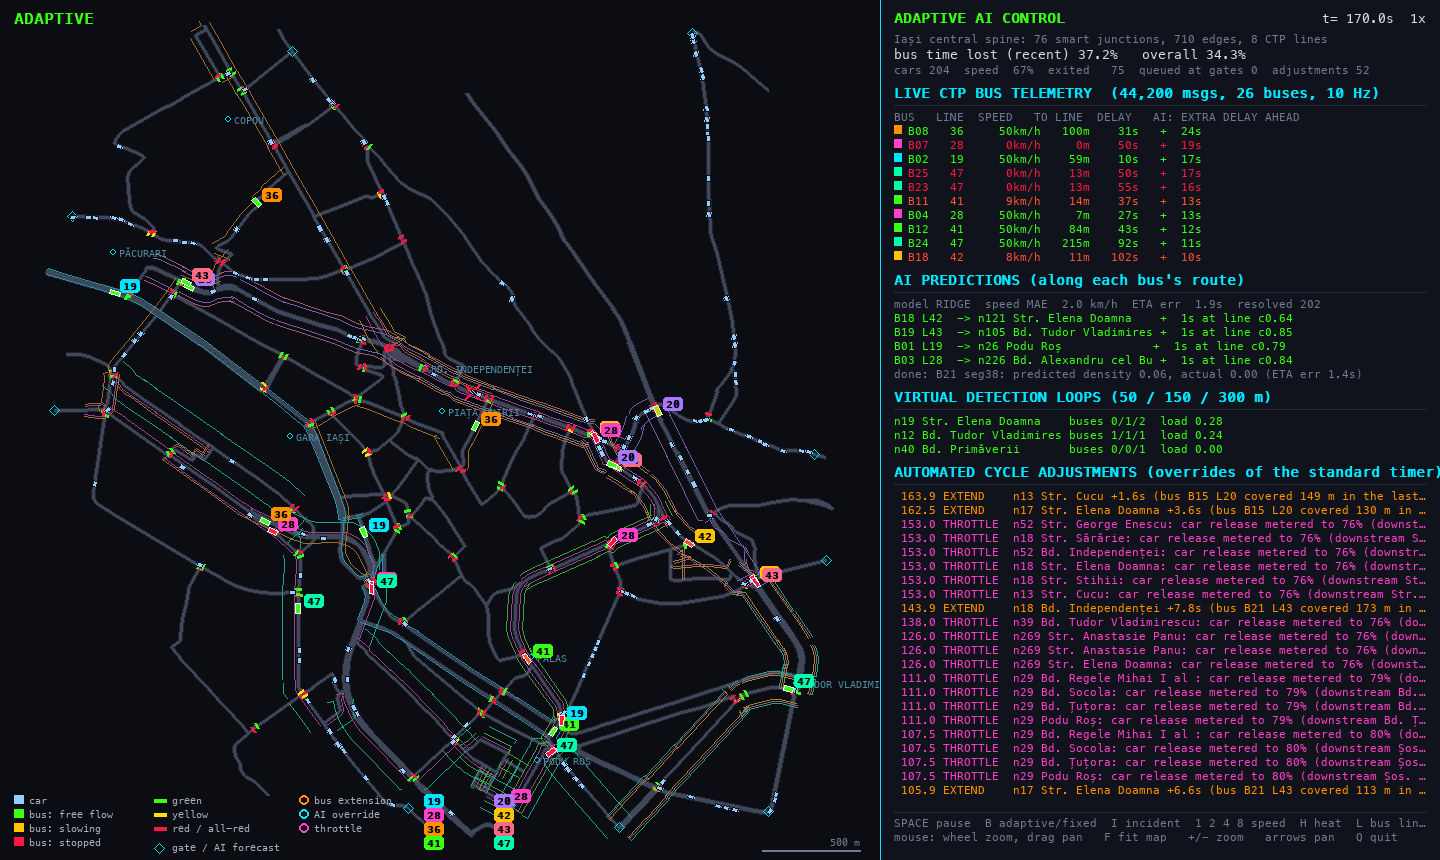
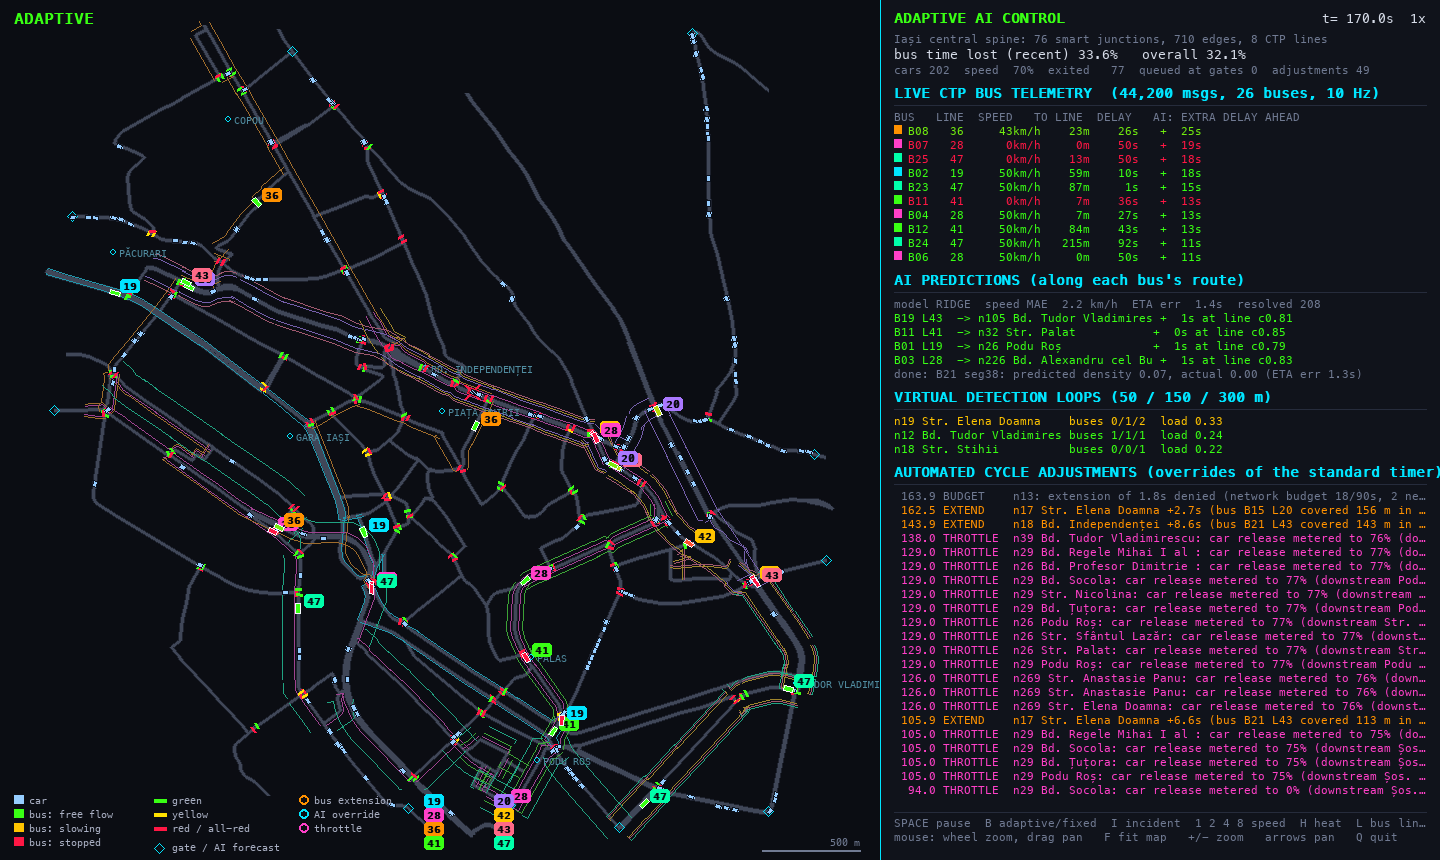
Let both sides of a green phase pass at the same time
When opposite streets were green together, one side often stood still: a
left-turner yielding to oncoming traffic blocked its whole one-lane
approach, and streams merging into the same edge took turns at the line.
Over ten simulated minutes 468 vehicles were found standing at a green
line six seconds or more into the green.

- remove the left-turn yield and the merge exclusion; opposite streets and
  left turns now simply cross inside the box
- when two streams land on the same edge, the later vehicle falls in
  behind the earlier one (it may sit a little before the centre until the
  leader moves on), so lanes never overlap
- judge entry room for the moment the vehicle reaches the junction centre
  instead of for the instant it passes the stop line: whoever is last on
  the next edge will have moved on unless it is standing. This removes a
  knife-edge where a car 20 cm short of the line had to stop dead while
  its twin on the other side drove on
- a full or stalled road ahead still blocks the approach, so nobody enters
  the box without room to leave it

Result: standing heads at green fell from 468 to 13 (the rest wait for a
full road ahead); opposite queues now discharge in lockstep. Both control
modes improve (fixed timers: bus time lost 38.0% to 36.2%, car speed 59%
to 64%, half-occupied edge-seconds 328 to 179). Adaptive control remains
close to fixed timers. Docs and measured tables updated; tests replaced
with ones that check both sides crossing together (119 pass).

diff --git a/smartcity/traffic_model.py b/smartcity/traffic_model.py
@@ -4,11 +4,12 @@ Controllers never read this directly. They only see what the buses report, so th
 really are the sensors. The world enforces the physical rules (SUMO-style, in plain Python):
 
 * a vehicle may not pass the stop line while its light is red, nor on yellow if it can still
-  stop, and it never enters the junction box unless there is room to leave it;
+  stop, and it never enters the junction box unless there will be room on the next edge when it
+  gets there;
 * vehicles follow the one ahead at a safe distance along the edge polyline and cannot overtake,
   so they never overlap and never jump across nodes;
-* left turns yield to oncoming traffic that shares their phase, and two streams merging into the
-  same edge take turns;
+* both streets of a phase pass together: nothing yields to oncoming traffic, and two streams that
+  merge into the same edge fall in behind one another when they land;
 * a throttled approach (see the coordinator) releases cars at a reduced rate.
 
 Every vehicle follows a route: buses loop forever along their line, cars follow a gate-to-gate
@@ -61,9 +62,9 @@ class TrafficModel:
         self._ids = 0
         self._release_factor: Callable[[int], float] = lambda s: 1.0
         self._signal_state: Callable[[int], str] = lambda s: "G"
-        # vehicles that have passed a stop line and are crossing the box: target edge -> {vehicle id: source edge}
+        # vehicles that have passed a stop line and are crossing the box (used so that cars are not spawned into an
+        # edge that traffic is entering): target edge -> {vehicle id: source edge}
         self.in_box: dict[int, dict[str, int]] = {}
-        self._kind_cache: dict[tuple[int, int], str] = {}
         self._seed_cars()
 
     # -- creation ------------------------------------------------------------
@@ -247,8 +248,6 @@ class TrafficModel:
             return True  # can still stop, so it must; only vehicles too fast to stop run the yellow
         if not self._can_enter(v):
             return True  # never enter the box without room to leave it
-        if self._turns_left(v, seg) and self._oncoming_conflict(seg):
-            return True  # yield to oncoming traffic, which is green at the same time
         if v.kind == "car":
             g = self._release_factor(seg.id)
             if g <= 0.0:
@@ -257,41 +256,17 @@ class TrafficModel:
                 return True
         return False
 
-    def _turns_left(self, v: Vehicle, seg: Segment) -> bool:
-        if v.next_seg is None:
-            return False
-        key = (seg.id, v.next_seg)
-        kind = self._kind_cache.get(key)
-        if kind is None:
-            kind = self._kind_cache[key] = self.net.turn_kind(seg.id, v.next_seg)
-        return kind == "left"
-
-    def _oncoming_conflict(self, seg: Segment) -> bool:
-        """Is oncoming traffic about to enter the box from the opposite approach?"""
-        opp_id = self.net.partner.get(seg.id)
-        if opp_id is None:
-            return False
-        opp = self.net.segments[opp_id]
-        for u in self.lanes[opp_id]:
-            if u.kind == "blocker" or u.pos < opp.stop_pos - 25.0:
-                continue
-            if self._turns_left(u, opp):
-                continue  # two left turns pass each other
-            if u.pos > opp.stop_pos or u.v > 1.5:  # moving toward the box, or already in it
-                return True
-        return False
-
     def _can_enter(self, v: Vehicle) -> bool:
         if v.next_seg is None:
             return True
-        # one stream at a time may merge into an edge; the box is not shared by two merging streams
-        if any(src != v.seg for src in self.in_box.get(v.next_seg, {}).values()):
-            return False
         lane = self.lanes[v.next_seg]
         if not lane:
             return True
+        # Room is judged for the moment this vehicle reaches the junction centre, not for now: whoever is
+        # last on the next edge will have moved on by then, unless it is standing (a queue, a stalled vehicle).
         tail = lane[-1]
-        return tail.pos - tail.length >= v.length + self.cfg.min_gap
+        arrive = (self.net.segments[v.seg].length - v.pos) / max(v.v, 3.0)
+        return tail.pos - tail.length + tail.v * arrive >= v.length + self.cfg.min_gap
 
     def _cross(self, seg: Segment, v: Vehicle) -> None:
         """The vehicle has reached the intersection centre: hand it to the next segment."""
@@ -301,7 +276,13 @@ class TrafficModel:
             return
         self.in_box.get(tgt, {}).pop(v.id, None)
         v.seg, v.pos = tgt, max(0.0, v.pos - seg.length)
-        self.lanes[tgt].append(v)
+        lane = self.lanes[tgt]
+        if lane:  # two streams may merge into this edge at once: the later one falls in behind the earlier
+            ahead = lane[-1]
+            room = ahead.pos - ahead.length - self.cfg.min_gap
+            if v.pos > room:
+                v.pos, v.v = room, min(v.v, ahead.v)  # may be a little before the centre: still in the junction
+        lane.append(v)
         v.leg += 1
         if v.cyclic and v.route is not None and v.leg >= len(v.route):
             v.leg = 0

diff --git a/tests/test_traffic_model.py b/tests/test_traffic_model.py
@@ -173,31 +173,46 @@ def test_density_is_occupied_fraction_of_the_edge():
     assert w.density(seg) == pytest.approx((cfg.car_length + cfg.min_gap) / 200.0)
 
 
-def test_left_turner_yields_to_moving_oncoming_traffic_then_goes():
+def crossing_times(w, cars, state="G", seconds=40):
+    """When each car first appears on a different edge from the one it started on."""
+    dt, started, when = w.cfg.dt, {c.id: c.seg for c in cars}, {}
+    for i in range(int(seconds / dt)):
+        w.step(i * dt, dt, lambda s: state, lambda s: 1.0)
+        for c in cars:
+            if c.id not in when and c.seg != started[c.id]:
+                when[c.id] = i * dt
+    return when
+
+
+def test_both_sides_of_a_green_phase_pass_at_the_same_time():
     cfg, net, w = make()
     west = net.segments[road(net, 4, 5)]  # eastbound into node 5
-    east = net.segments[road(net, 6, 5)]  # westbound into node 5: the oncoming approach
+    east = net.segments[road(net, 6, 5)]  # westbound into node 5: the opposite approach, same phase
     assert net.partner[west.id] == east.id
-    left_target = turn(net, west.id, "left")
-    straight = turn(net, east.id, "straight")
-    left = put(w, west.id, west.stop_pos - 3.0, v=0.0, next_seg=left_target)
-    oncoming = put(w, east.id, east.stop_pos - 12.0, v=10.0, next_seg=straight)
-    w.step(0.0, cfg.dt, lambda s: "G", lambda s: 1.0)
-    assert left.pos <= west.stop_pos  # held at the line while a car bears down on the box
-    run(w, 10, state="G")
-    assert oncoming.seg == straight and left.seg == left_target  # then it turns once the road is clear
+    a = [put(w, west.id, west.stop_pos - 2 - 7 * i, next_seg=turn(net, west.id, "straight")) for i in range(4)]
+    b = [put(w, east.id, east.stop_pos - 2 - 7 * i, next_seg=turn(net, east.id, "straight")) for i in range(4)]
+    when = crossing_times(w, a + b)
+    assert len(when) == 8  # every car of both queues got through
+    for ca, cb in zip(a, b, strict=True):
+        assert abs(when[ca.id] - when[cb.id]) < 1.5  # side by side, not one side after the other
+    assert max(when.values()) < 15
 
 
-def test_two_left_turns_from_opposite_sides_do_not_block_each_other():
+def test_a_left_turner_holds_up_neither_the_cars_behind_it_nor_the_oncoming_side():
     cfg, net, w = make()
-    a, b = net.segments[road(net, 4, 5)], net.segments[road(net, 6, 5)]
-    va = put(w, a.id, a.stop_pos - 3.0, next_seg=turn(net, a.id, "left"))
-    vb = put(w, b.id, b.stop_pos - 3.0, next_seg=turn(net, b.id, "left"))
-    run(w, 15, state="G")
-    assert va.seg != a.id and vb.seg != b.id
+    west = net.segments[road(net, 4, 5)]
+    east = net.segments[road(net, 6, 5)]
+    left = put(w, west.id, west.stop_pos - 2, next_seg=turn(net, west.id, "left"))
+    behind = put(w, west.id, west.stop_pos - 9, next_seg=turn(net, west.id, "straight"))
+    oncoming = [
+        put(w, east.id, east.stop_pos - 2 - 7 * i, v=8.0, next_seg=turn(net, east.id, "straight")) for i in range(5)
+    ]
+    when = crossing_times(w, [left, behind, *oncoming])
+    assert len(when) == 7  # nobody waited for anybody else to clear the box
+    assert when[left.id] < 5 and when[behind.id] < 8 and max(when[c.id] for c in oncoming) < 12
 
 
-def test_streams_merging_into_the_same_edge_take_turns_in_the_box():
+def test_streams_merging_into_the_same_edge_both_get_through_one_behind_the_other():
     cfg, net, w = make()
     a = net.segments[road(net, 1, 5)]  # southbound into node 5, turning right (west)
     b = net.segments[road(net, 9, 5)]  # northbound into node 5, turning left (west)
@@ -205,9 +220,13 @@ def test_streams_merging_into_the_same_edge_take_turns_in_the_box():
     assert turn(net, b.id, "left") == target
     va = put(w, a.id, a.stop_pos - 1.0, v=4.0, next_seg=target)
     vb = put(w, b.id, b.stop_pos - 1.0, v=4.0, next_seg=target)
-    for i in range(int(20 / cfg.dt)):
-        w.step(i * cfg.dt, cfg.dt, lambda s: "G", lambda s: 1.0)
+    dt, when = cfg.dt, {}
+    for i in range(int(20 / dt)):
+        w.step(i * dt, dt, lambda s: "G", lambda s: 1.0)
         lane = w.lanes[target]
         for ahead, behind in zip(lane, lane[1:], strict=False):
-            assert behind.pos <= ahead.pos - ahead.length + 1e-6
-    assert va.seg != a.id and vb.seg != b.id  # both got through, one after the other
+            assert behind.pos <= ahead.pos - ahead.length + 1e-6  # they follow, never overlap
+        for v, src in ((va, a), (vb, b)):
+            if v.id not in when and v.seg != src.id:
+                when[v.id] = i * dt
+    assert len(when) == 2 and abs(when[va.id] - when[vb.id]) < 3.0  # not made to take turns at the line

diff --git a/ARCHITECTURE.md b/ARCHITECTURE.md
@@ -112,11 +112,10 @@ Identical in fixed and adaptive mode, in plain Python in the spirit of SUMO's sa
 
 - *Red:* a vehicle holds at the stop line; nothing enters the box while its light is red.
 - *Yellow:* a vehicle stops if it can still do so with maximum braking; only vehicles too fast to stop continue.
-- *Green:* a vehicle crosses only if the start of its next edge has room, so nobody enters the box without room to leave it.
+- *Green:* a vehicle crosses only if there will be room on the start of its next edge when it reaches the junction centre (whoever is last on that edge will have moved on by then, unless it is standing in a queue or stalled), so nobody enters the box without room to leave it.
 - *Car-following:* a vehicle keeps a safe distance behind the one ahead along the polyline (`v <= sqrt(2 * a_comfort * room)`), with no overtaking, so vehicles never overlap and never jump across nodes.
 - *Speed:* each vehicle drives at its edge's speed limit (cars vary by up to 8%), accelerating at 1.8 m/s² and braking at up to 6 m/s².
-- *Left turns:* both opposite streets are green together, so a left-turner yields while oncoming traffic is moving toward the box or in it.
-- *Merging:* two streams turning into the same edge never share the box.
+- *Both sides pass together:* nothing yields to oncoming traffic. The two opposite streets of a green phase (and a left turn across the oncoming one) go at the same time and simply cross inside the box; when two streams merge into the same edge, the later vehicle falls in behind the earlier one as it lands. This keeps a left-turner from holding up everyone behind it on a one-lane road.
 - *Throttle:* when the coordinator meters an approach, cars (not buses) are released no faster than `sat_flow * g`.
 - *Incident:* a stalled vehicle parks mid-edge for 150 s. On a one-lane road nobody can overtake, so the lane is blocked.
 
@@ -222,7 +221,7 @@ Everything except the window is headless. 119 tests:
 
 - **Network and geometry:** projection round trip, compass names, polyline position and lane side on a bent road, stop-line set-back; phase grouping on crossroads, T, skewed, five-way and two-approach nodes; turn options without U-turns; gates; routing.
 - **Iași dataset:** real streets and landmarks present, lengths and limits plausible, the requested lines (19, 28, 36, 41) present and contiguous, routes run along their streets, every gate reaches every other, every signalised junction has valid phases.
-- **World rules:** stop line on red, proceed on green, queue gaps, edge speed limits, wait when the exit is full, yellow, throttle spacing, buses not throttled, left-turn yield, two left turns pass, merge exclusion, stalled vehicle, cars follow gate-to-gate routes.
+- **World rules:** stop line on red, proceed on green, queue gaps, edge speed limits, wait when the exit is full, yellow, throttle spacing, buses not throttled, both sides of a green phase crossing in lockstep, a left-turner holding up neither the cars behind it nor the oncoming side, merging streams falling in behind one another, stalled vehicle, cars follow gate-to-gate routes.
 - **Signals:** opposite lights match at every junction at every tick (300 s of the real map); one phase non-red at a time; every street served; phase order green-yellow-all-red; **7 s minimum green, 3 s yellow and 2 s all-red measured**, including with adaptive extensions; **a green is never shorter than its standard time and its planned length only ever grows**.
 - **Sensing and controllers:** detection windows including across junctions, standing-bus rules, queue occupancy, route-aware `buses_near`; the route odometer (laps, history, unjudgeable buses); **the per-cycle check: a bus that barely moved gets the green extended, one that made good progress changes nothing, extensions scale with the shortfall, no judgement without a whole cycle of history or a previous green, far or off-route buses ignored, no extension into jammed streets, cap and budget, fixed timers unaffected**; the graph-aware throttle (an overloaded *downstream junction* throttles an upstream release onto a free edge) and its bus waiver; predictive extension.
 - **Prediction:** forecasts follow the route for three hops and wrap; the window moves ahead as the bus clears junctions; unknown lines get one hop; error recording, expiry, ridge learning.
@@ -237,24 +236,25 @@ Everything except the window is headless. 119 tests:
 
 | mode | bus time lost | car speed (share of limit) | edge-seconds half-occupied | cars exited | adjustments |
 |---|---|---|---|---|---|
-| fixed timers | 38.0% | 59% | 328 | 268 | 0 |
-| adaptive | 37.6% | 57% | 337 | 265 | 245 |
+| fixed timers | 36.2% | 64% | 179 | 278 | 0 |
+| adaptive | 35.6% | 62% | 172 | 277 | 220 |
 
 Other demand levels (bus time lost / car speed / jam edge-seconds / cars exited, fixed then adaptive):
 
 | demand (cars/s per gate) | seeds | fixed timers | adaptive |
 |---|---|---|---|
-| 0.045 | 4 | 36.4% / 65% / 36 / 219 | 36.2% / 63% / 38 / 219 |
-| 0.06 | 4 | 37.4% / 62% / 109 / 244 | 37.2% / 62% / 114 / 242 |
-| 0.08 (default) | 6 | 38.0% / 59% / 328 / 268 | 37.6% / 57% / 337 / 265 |
+| 0.045 | 4 | 35.5% / 67% / 34 / 223 | 35.1% / 65% / 44 / 221 |
+| 0.06 | 4 | 35.6% / 65% / 66 / 252 | 35.3% / 64% / 74 / 250 |
+| 0.08 (default) | 6 | 36.2% / 64% / 179 / 278 | 35.6% / 62% / 172 / 277 |
 
-Ablation at the default demand (6 seeds; bus time lost / car speed / jam / exited): fixed 38.0% / 58.5% / 328 / 268; everything on 37.6% / 57.0% / 337 / 265; no throttle 37.6% / 58.1% / 352 / 267; throttle only 38.4% / 57.7% / 314 / 264; no cycle extension and no predictive extension (equal to throttle only).
+Ablation at the default demand (6 seeds; bus time lost / car speed / jam / exited): fixed 36.2% / 63.5% / 179 / 278; everything on 35.6% / 62.5% / 172 / 277; no throttle 35.5% / 63.1% / 194 / 275; throttle only 36.3% / 62.7% / 163 / 278; no cycle extension 36.3% / 62.5% / 175 / 277.
 
 - **Performance.** A frame at 1x speed costs about 9 ms (map and dashboard 5 ms, six simulation ticks 3.4 ms), so the demo holds 60 FPS; at 4x about 53 FPS; the loop keeps the window responsive at 8x. A 15-minute run simulates in about 6 s headless.
-- **With only bus evidence and extend-only greens, adaptive control is close to a wash.** The per-cycle check fires a few dozen times in ten minutes and each time cites a bus that really was held (113 m in a 50 s cycle, and so on). It lowers bus time lost by about 0.8 points relative to the throttle alone, and 0.4 points relative to fixed timers, at the cost of a little green taken from the cross street. The throttle, which the brief asks for to prevent shifting a bottleneck, costs car speed (about one point) and barely changes how long edges stay half-full. Net: bus time lost 0.2 to 0.4 points lower, car speed 0 to 2 points lower, throughput within 1%, jams unchanged within noise. An earlier version that also shortened some greens to lengthen others (score-sized splits and early switches, which decided about cars from estimates) measured better for buses (1.7 points at the default demand) and for jams; removing those, as required because the cars are not observed, gives that up.
+- **With only bus evidence and extend-only greens, adaptive control is close to a wash.** The per-cycle check fires a few dozen times in ten minutes and each time cites a bus that really was held (113 m in a 50 s cycle, and so on). It lowers bus time lost by about 0.7 points relative to the throttle alone and 0.6 points relative to fixed timers, at the cost of a little green taken from the cross street. The throttle, which the brief asks for to prevent shifting a bottleneck, costs car speed (about one point) and changes how long edges stay half-full little. Net: bus time lost 0.3 to 0.6 points lower, car speed 1 to 2 points lower, throughput within 1%, jams unchanged within noise. An earlier version that also shortened some greens to lengthen others (score-sized splits and early switches, which decided about cars from estimates) measured better for buses (1.7 points at the default demand, under the previous traffic rules) and for jams; removing those, as required because the cars are not observed, gives that up.
+- **Free-flowing both sides help every mode.** Letting both sides of a phase pass together (no yielding, entry room judged for the moment of arrival) made the baseline itself much better than before: at the default demand fixed timers now lose 36.2% of bus time (was 38.0%), cars average 64% of the limit (was 59%), and half-occupied edge-seconds fell from 328 to 179.
 - **Differences from the request.** CTP's lines as described in the brief (28: Dacia - Podu Roș - Triumf; 41: Dacia - Podu Roș) do not match OpenStreetMap, where line 28 is Dacia - Copou and line 41 is Blocuri Ciurea - Piața Independenței. The dataset uses the OSM relations, since that is what can be queried; line 19 (Canta - CUG) and 36 (Dacia - Breazu) match. Only the part of each line inside the cropped map is simulated, and OSM relations are volunteer-maintained and may differ from CTP's current timetable.
-- **Simplifications.** One lane per direction whatever OSM `lanes` says; only primary/secondary/tertiary roads (plus what the routes need), so residential streets are absent; every junction with three or more approaches is signalised, whereas only some are in reality; no pedestrians, lane changes or turn lanes; no collision physics inside the box; unsignalised bends and merges give way only by the room check. Speed limits come from `maxspeed` tags with a 50 km/h urban default.
-- **Left turns** are the weak spot of paired phases on one lane: a left-turner waiting for a gap holds up the cars behind it.
+- **Simplifications.** One lane per direction whatever OSM `lanes` says; only primary/secondary/tertiary roads (plus what the routes need), so residential streets are absent; every junction with three or more approaches is signalised, whereas only some are in reality; no pedestrians, lane changes or turn lanes; no collision physics inside the box (opposite streams and left turns pass through each other there); unsignalised bends and merges give way only by the room check. Speed limits come from `maxspeed` tags with a 50 km/h urban default.
+- **Nobody yields.** A model that made left-turners wait for gaps was dropped because on one lane the waiting vehicle blocked its whole approach while the oncoming side flowed. Over ten simulated minutes the number of vehicles standing at a green line six seconds or more into the green fell from 468 to 13 (the rest wait for a full road ahead).
 - **Predictive extensions are rare.** The model works but regresses to the mean, so few forecasts are dense enough to act on; the per-cycle check does most of the work. ETA error is large (roughly 15-25 s) because forecast arrivals ignore waiting at red.
 - **Bus-only sensing** means unvisited edges have no fresh data; confidence decays to a neutral prior, so the controllers see the *neighbourhood of the buses*, not the whole city.
 - **Rush hour** is approximated by raising demand (`--demand`); there is no time-of-day profile yet. Weights and thresholds are hand-tuned on a few seeds, not optimised.
